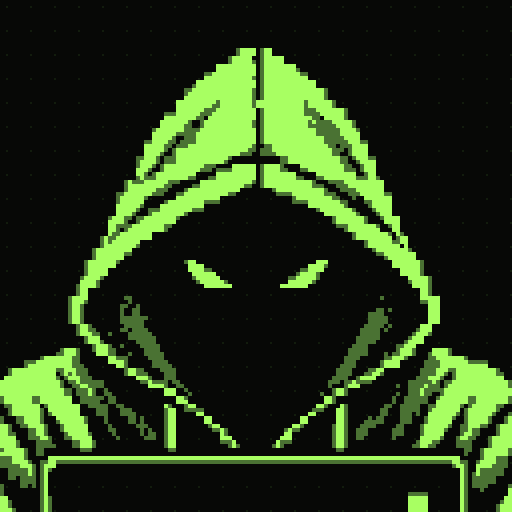
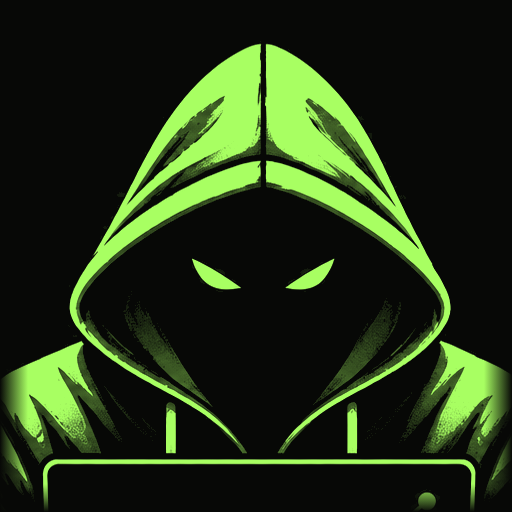
Swap in the smooth operator art, recoloured to the site palette
The new source is an illustration rather than a sprite, so quantising it to a
pixel grid would have thrown away the shading it is made of. Each crop is now
a duotone map from the page black to the site green, which keeps the soft
folds and still lands exactly on the palette.

Nearest-neighbour rendering goes with it, for the same reason.

The source carries a faint halo that read as a box against the page, so very
dark values are clipped to the page black and the two borderless crops fade
out at the edge.

diff --git a/web/index.html b/web/index.html
@@ -586,14 +586,14 @@ footer b { color:var(--muted); font-weight:400; }
 .mrow span { color:var(--dim); }
 @media (max-width:900px) { .method { grid-template-columns:1fr; } }
 .opband{margin:26px 0 0;padding:0;border:1px solid #232620;background:#070806;overflow:hidden;line-height:0}
-.opband img{display:block;width:100%;height:auto;image-rendering:pixelated}
+.opband img{display:block;width:100%;height:auto}
 /* The hero carries the operator beside the copy; it drops away on narrow
    screens, where the headline needs the full width more than the art does. */
 .pipeText{max-width:none;display:grid;grid-template-columns:minmax(0,1fr) minmax(0,320px);
   gap:40px;align-items:center}
 .heroCopy{min-width:0}
 .heroArt{margin:0;padding:0;line-height:0;display:flex;justify-content:flex-end}
-.heroArt img{display:block;width:320px;max-width:100%;height:auto;image-rendering:pixelated}
+.heroArt img{display:block;width:320px;max-width:100%;height:auto}
 @media (max-width:900px){.pipeText{grid-template-columns:1fr;gap:0}.heroArt{display:none}}
 </style>
 </head>
